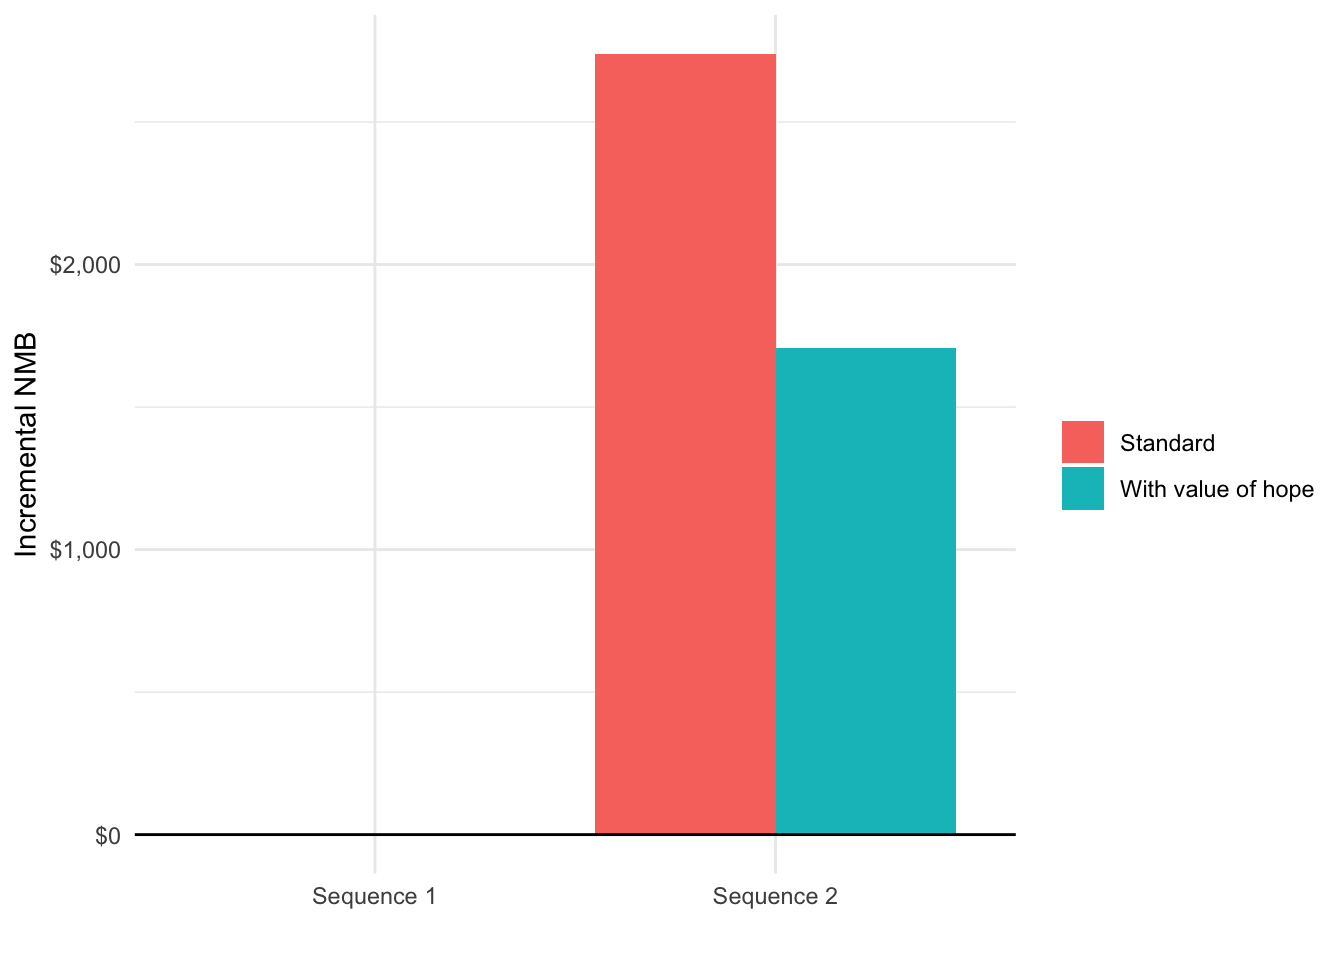
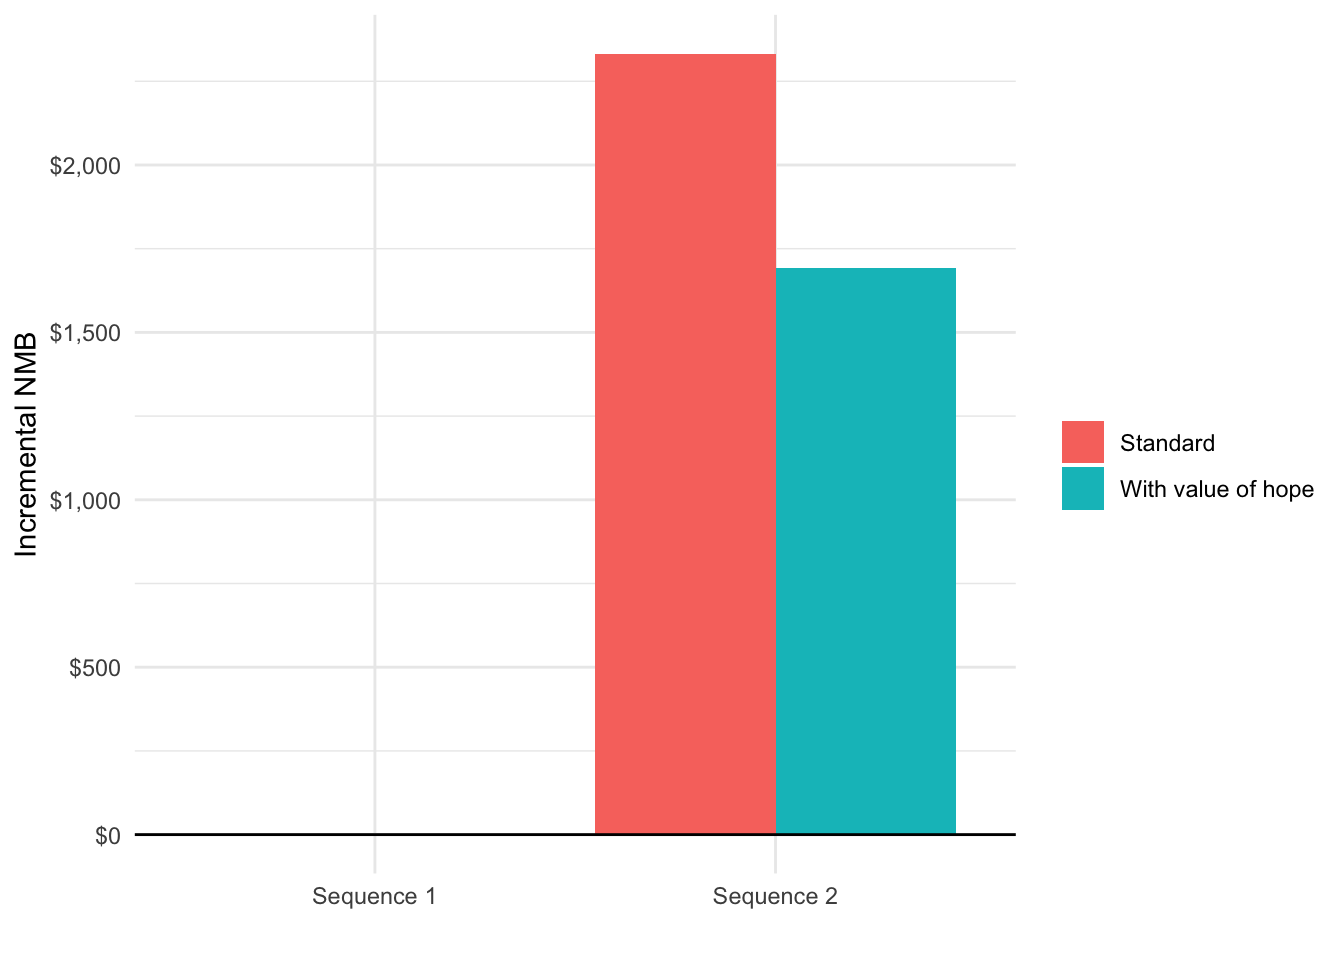
Minor update to previous commit

diff --git a/docs/articles/tutorial.html b/docs/articles/tutorial.html
@@ -244,11 +244,11 @@ transmod_data &lt;-<span class="st"> </span><span class="kw"><a href="../referen
 ## Print first 5 rows and and 10 covariates from data
 <span class="kw">print</span>(transmod_data[<span class="dv">1</span><span class="op">:</span><span class="dv">5</span>, <span class="dv">1</span><span class="op">:</span><span class="dv">10</span>]) </code></pre></div>
 <pre><code>##    strategy_id patient_id transition_id female      age mutation tx_abb
-## 1:           1          1             1      0 79.51053        1    erl
-## 2:           1          1             2      0 79.51053        1    erl
-## 3:           1          1             3      0 79.51053        1    osi
-## 4:           1          1             4      0 79.51053        1    osi
-## 5:           1          1             5      0 79.51053        1    osi
+## 1:           1          1             1      0 55.94965        1    erl
+## 2:           1          1             2      0 55.94965        1    erl
+## 3:           1          1             3      0 55.94965        1    osi
+## 4:           1          1             4      0 55.94965        1    osi
+## 5:           1          1             5      0 55.94965        1    osi
 ##    tx_hist osi_s1p1_scale osi_s1d_scale
 ## 1:    &lt;NA&gt;              1             0
 ## 2:    &lt;NA&gt;              0             1
@@ -516,22 +516,22 @@ knitr<span class="op">::</span><span class="kw"><a href="http://www.rdocumentati
 <tr class="odd">
 <td>Incremental QALYs</td>
 <td align="left">-</td>
-<td align="left">0.05 (0.00, 0.11)</td>
+<td align="left">0.06 (0.01, 0.11)</td>
 </tr>
 <tr class="even">
 <td>Incremental costs ($)</td>
 <td align="left">-</td>
-<td align="left">2,476 (-6,555, 13,381)</td>
+<td align="left">3,725 (-7,127, 12,645)</td>
 </tr>
 <tr class="odd">
 <td>Incremental NMB ($)</td>
 <td align="left">-</td>
-<td align="left">2,740 (-3,904, 8,716)</td>
+<td align="left">2,332 (-3,716, 9,059)</td>
 </tr>
 <tr class="even">
 <td>ICER ($ per QALY)</td>
 <td align="left">-</td>
-<td align="left">47,469</td>
+<td align="left">61,493</td>
 </tr>
 <tr class="odd">
 <td>Conclusion</td>
@@ -572,7 +572,7 @@ xlim &lt;-<span class="st"> </span><span class="kw">max</span>(icea_pw<span clas
 <div id="multi-criteria-decision-analysis" class="section level2">
 <h2 class="hasAnchor">
 <a href="#multi-criteria-decision-analysis" class="anchor"></a><span class="header-section-number">4.2</span> Multi criteria decision analysis</h2>
-<p>We perform the MCDA using the approach described by the <a href="https://www.ncbi.nlm.nih.gov/pubmed/26797229">2016 ISPOR Task Force</a>. Here, we assess the treatment strategies on eight criteria: life-years with stable disease on 1L treatment, life-years with progressed disease on 1L treatment (or equivalently, life-years stable disease on 2L treatment), life-years with progressed disease on 2L treatment, the probability of experiencing diarrhea, health care sector costs, productivity costs, route of administration, and years since FDA approval. (Note that we restrict adverse events to only diarrhea for illustrative purposes, but that other adverse events could be included as well). High values are better for life-years, route of administration (1 = oral, 0 = intravenous), and years since FDA approval while lower values are better for health care sector costs, productivity losses, and the probability of experiencing diarrhea. Performance for the two treatment attributes—route of administration and years since FDA approval—can be computed with <code><a href="../reference/txattr_performance.html">txattr_performance()</a></code>. Both are a weighted averages of each treatment in a treatment sequence, with weights equal to the proportion of total life years with each treatment.</p>
+<p>We perform the MCDA using the approach described by the <a href="https://www.ncbi.nlm.nih.gov/pubmed/26797229">2016 ISPOR Task Force</a>. Here, we assess the treatment strategies on eight criteria: life-years with stable disease on 1L treatment, life-years with progressed disease on 1L treatment (or equivalently, life-years stable disease on 2L treatment), life-years with progressed disease on 2L treatment, health care sector costs, productivity costs, route of administration, years since FDA approval, and the probability of experiencing diarrhea. (Note that we restrict adverse events to only diarrhea for illustrative purposes, but that other adverse events could be included as well). High values are better for life-years, route of administration (1 = oral, 0 = intravenous), and years since FDA approval while lower values are better for health care sector costs, productivity losses, and the probability of experiencing diarrhea. Performance for the two treatment attributes—route of administration and years since FDA approval—can be computed with <code><a href="../reference/txattr_performance.html">txattr_performance()</a></code>. Both are a weighted averages of each treatment in a treatment sequence, with weights equal to the proportion of total life years with each treatment.</p>
 <p>Before conducting the MCDA, it useful to summarize the performance of the criteria on their original scales with a “performance matrix”.</p>
 <div class="sourceCode"><pre class="sourceCode r"><code class="sourceCode r">hc_costs &lt;-<span class="st"> </span>ce_sim<span class="op">$</span>costs[<span class="op">!</span>category <span class="op">%in%</span><span class="st"> </span><span class="kw">c</span>(<span class="st">"prod"</span>, <span class="st">"total"</span>), 
                            .(<span class="dt">costs =</span> <span class="kw">sum</span>(costs)),
@@ -610,43 +610,43 @@ knitr<span class="op">::</span><span class="kw"><a href="http://www.rdocumentati
 <tbody>
 <tr class="odd">
 <td>Life-years stable disease</td>
-<td align="left">0.44 (0.41, 0.46)</td>
-<td align="left">0.51 (0.48, 0.53)</td>
+<td align="left">0.43 (0.41, 0.46)</td>
+<td align="left">0.51 (0.49, 0.53)</td>
 </tr>
 <tr class="even">
 <td>Life-years progressed 1L</td>
 <td align="left">0.18 (0.15, 0.20)</td>
-<td align="left">0.17 (0.15, 0.20)</td>
+<td align="left">0.18 (0.15, 0.20)</td>
 </tr>
 <tr class="odd">
 <td>Life-years progressed 2L</td>
-<td align="left">0.17 (0.14, 0.20)</td>
-<td align="left">0.17 (0.14, 0.20)</td>
+<td align="left">0.17 (0.14, 0.19)</td>
+<td align="left">0.17 (0.13, 0.20)</td>
 </tr>
 <tr class="even">
 <td>Health care sector costs</td>
-<td align="left">82,432 (73,213, 93,004)</td>
-<td align="left">84,908 (74,505, 96,112)</td>
+<td align="left">82,063 (72,820, 91,945)</td>
+<td align="left">85,788 (76,266, 92,450)</td>
 </tr>
 <tr class="odd">
 <td>Productivity costs</td>
-<td align="left">83,664 (81,965, 85,617)</td>
-<td align="left">84,426 (82,515, 86,687)</td>
+<td align="left">79,220 (77,183, 81,108)</td>
+<td align="left">79,975 (77,779, 82,205)</td>
 </tr>
 <tr class="even">
 <td>Route of administration</td>
-<td align="left">0.88 (0.87, 0.89)</td>
-<td align="left">0.89 (0.87, 0.90)</td>
+<td align="left">0.88 (0.87, 0.90)</td>
+<td align="left">0.89 (0.88, 0.90)</td>
 </tr>
 <tr class="odd">
 <td>Years since FDA approval</td>
-<td align="left">13.39 (13.30, 13.47)</td>
-<td align="left">4.09 (3.98, 4.24)</td>
+<td align="left">13.39 (13.31, 13.48)</td>
+<td align="left">4.10 (3.97, 4.22)</td>
 </tr>
 <tr class="even">
 <td>Diarrhea</td>
-<td align="left">0.56 (0.00, 0.96)</td>
-<td align="left">0.06 (0.00, 0.43)</td>
+<td align="left">0.58 (0.01, 0.96)</td>
+<td align="left">0.07 (0.00, 0.33)</td>
 </tr>
 </tbody>
 </table>
@@ -678,43 +678,43 @@ knitr<span class="op">::</span><span class="kw"><a href="http://www.rdocumentati
 <tbody>
 <tr class="odd">
 <td>Life-years stable disease</td>
-<td align="left">26.44 (6.70, 44.20)</td>
-<td align="left">80.13 (62.40, 98.45)</td>
+<td align="left">25.88 (5.63, 45.43)</td>
+<td align="left">82.36 (66.50, 98.23)</td>
 </tr>
 <tr class="even">
 <td>Life-years progressed 1L</td>
-<td align="left">50.64 (13.64, 95.18)</td>
-<td align="left">46.49 (9.30, 92.65)</td>
+<td align="left">47.66 (13.64, 86.88)</td>
+<td align="left">48.72 (11.80, 84.05)</td>
 </tr>
 <tr class="odd">
 <td>Life-years progressed 2L</td>
-<td align="left">51.36 (12.66, 92.45)</td>
-<td align="left">46.13 (7.09, 80.88)</td>
+<td align="left">57.39 (28.31, 81.88)</td>
+<td align="left">58.18 (21.42, 86.12)</td>
 </tr>
 <tr class="even">
 <td>Health care sector costs</td>
-<td align="left">54.39 (16.95, 87.03)</td>
-<td align="left">45.62 (5.95, 82.45)</td>
+<td align="left">53.27 (13.05, 90.90)</td>
+<td align="left">38.11 (11.00, 76.87)</td>
 </tr>
 <tr class="odd">
 <td>Productivity costs</td>
-<td align="left">56.38 (23.04, 85.38)</td>
-<td align="left">43.36 (4.75, 75.98)</td>
+<td align="left">56.78 (27.43, 88.45)</td>
+<td align="left">45.04 (10.37, 79.19)</td>
 </tr>
 <tr class="even">
 <td>Route of administration</td>
-<td align="left">47.86 (19.79, 74.92)</td>
-<td align="left">63.07 (26.13, 91.85)</td>
+<td align="left">36.41 (7.66, 66.97)</td>
+<td align="left">45.12 (19.95, 73.29)</td>
 </tr>
 <tr class="odd">
 <td>Years since FDA approval</td>
-<td align="left">98.87 (97.99, 99.71)</td>
-<td align="left">1.64 (0.44, 3.24)</td>
+<td align="left">98.82 (97.96, 99.67)</td>
+<td align="left">2.59 (1.26, 3.79)</td>
 </tr>
 <tr class="even">
 <td>Diarrhea</td>
-<td align="left">41.65 (0.60, 99.81)</td>
-<td align="left">93.41 (55.34, 99.97)</td>
+<td align="left">40.62 (0.63, 98.50)</td>
+<td align="left">93.22 (65.78, 99.99)</td>
 </tr>
 </tbody>
 </table>
